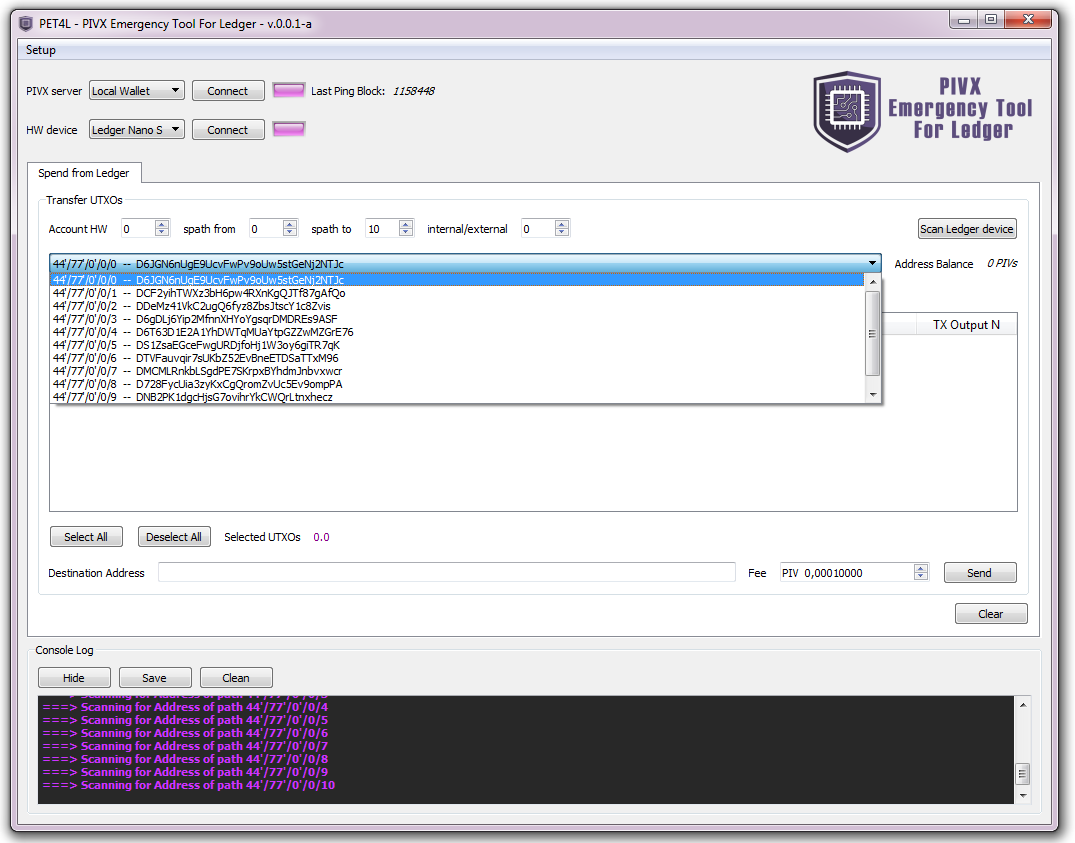
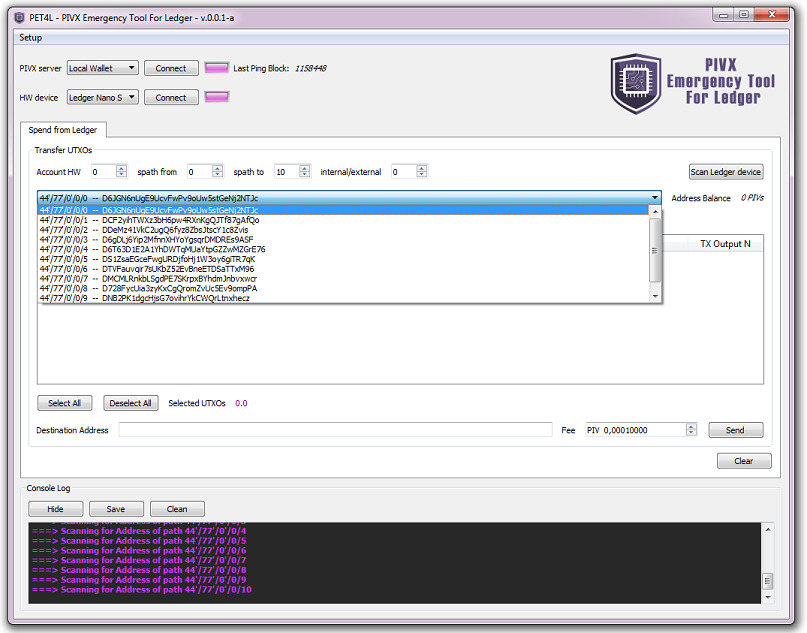
PET4L - docs: resize images

diff --git a/README.md b/README.md
@@ -10,7 +10,7 @@ If you are using a binary version, just unzip the folder anywhere you like and u
 
 If you are running PET4L from the source-code instead, you will need Python3 and several libraries installed.<br>
 Needed libraries are listed in `requirements.txt`.<br>
-From the `SPMT` directory, launch the tool with:
+From the `PET4L` directory, launch the tool with:
 ```bash
 python3 pet4l.py
 ```
@@ -53,6 +53,7 @@ Adjust the fields as needed:
 - <b>spath from</b> : insert the n. of the first address to search (default: 0)
 - <b>spath to</b> : insert the n. of the last address to search (default: 10)
 - <b>internal/external</b> : insert 0 for normal addresses and 1 for change addresses (default: 0)
+
 <br>
 Click on `Scan Ledger Device` to retrieve the addresses and load the UTXOs
 <br>![04](doc/img/04.png)
